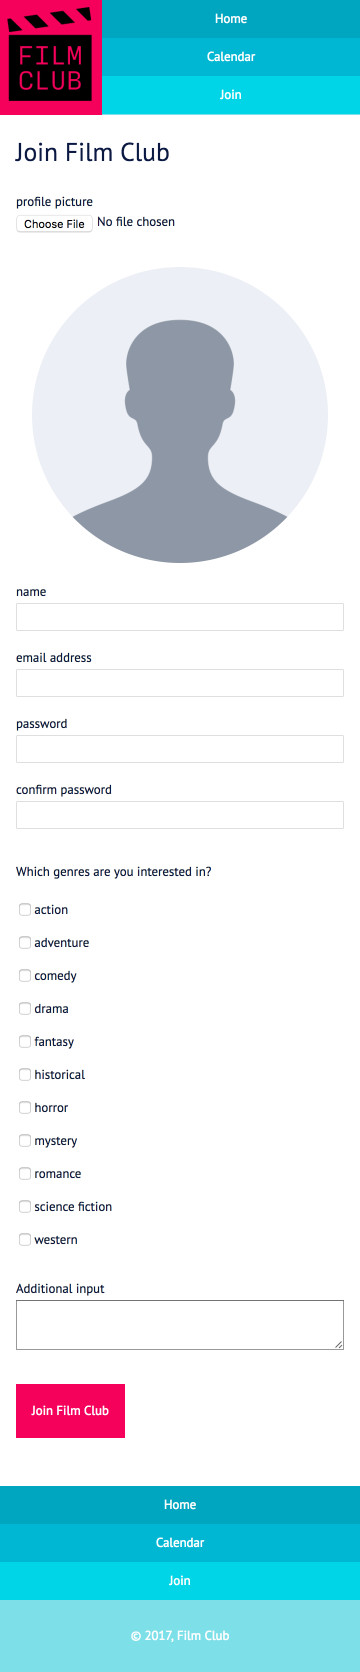
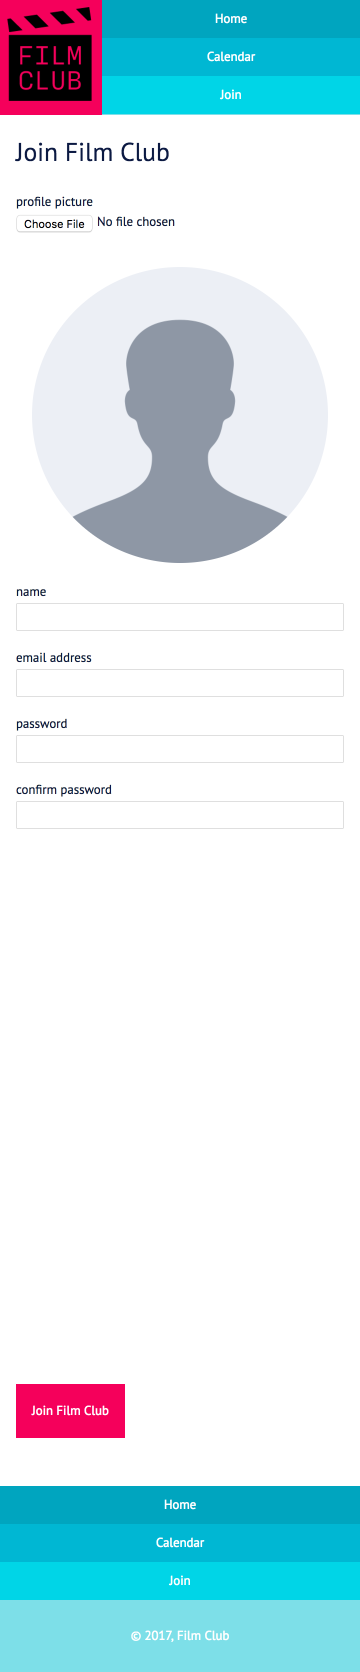
Add CSS styles to join page. Add media queries to CSS for join page. Adjust HTML for join page.

diff --git a/css/main.css b/css/main.css
@@ -290,7 +290,69 @@ h2 {
   text-align: center;
   flex-basis: 51%;
 }
-/*tablet media query*/
+
+/*join page styles*/
+form {
+  font-family: 'PT Sans', sans-serif;
+  font-size: 0.9rem;
+}
+.file-upload {
+  margin-left: 5%;
+}
+.profile-information input {
+  border-style: groove;
+}
+#profile-img img {
+  width: 70vw;
+  border-radius: 50%;
+  margin-top: 5%;
+}
+
+.placeholder-img {
+  display: flex;
+  flex-direction: column;
+}
+.name-email-form {
+  margin: 5% 0 5% 5%;
+}
+.name-email input {
+  width: 95%;
+  border-style: groove;
+  padding: 1.5%;
+}
+.genre-interest-form h4 {
+  font-family: 'PT Sans', sans-serif;
+  font-size: 1rem;
+  font-weight: 500;
+  margin: 0% 0% 3% 5%;
+}
+.genre-checkbox div  {
+  padding: 1.5%;
+  margin-left: 5%;
+}
+.add-text-area {
+  margin: 5% 0% 3% 5%;
+}
+#textarea {
+  border-style: groove;
+  width: 95%;
+  height: 9vh;
+}
+
+#join-film-club {
+  background-color: #F5005B;
+  height: 10vh;
+  width: 30%;
+  padding: 0%;
+  margin: 3% 0% 10% 5%;
+  color: #ffffff;
+  font-family: 'PT Sans', sans-serif;
+  font-size: 1rem;
+  text-align: center;
+  border-style: none;
+}
+
+/*tablet media querys*/
 
 @media screen and (min-width: 545px) and (max-width: 768px) {
   .main-nav {
@@ -418,8 +480,46 @@ h2 {
     section {
     padding-bottom: 5%;
   }
+
+/*tablet join media querys*/
+
+.top-profile-section {
+  display:flex;
 }
-/*desktop media query*/
+#profile-img img {
+    width: 35vw;
+    border-radius: 50%;
+    margin-top: 5%;
+  }
+  .profile-info {
+    flex-basis: 45%;
+  }
+  .top-email-name {
+    margin-top: -12%;
+  }
+  .top-passwords {
+    margin-top: 10%;
+  }
+  .name-email-form {
+    flex-basis: 48%;
+  }
+  .name-email-form div {
+    padding: 1%;
+  }
+  .genre-checkbox {
+    display: flex;
+    flex-direction: row;
+    flex-wrap: wrap;
+  }
+  .genre-interest-form h4 {
+    margin: 5% 0% 3% 5%;
+  }
+  .genre-checkbox div {
+    flex-basis: 35%;
+  }
+}
+
+/*desktop media querys*/
 @media screen and (min-width: 769px) {
   .main-nav {
     display: flex;
@@ -569,4 +669,65 @@ h2 {
     color: #0B1942;
     padding: 0%;
   }
+
+/*desktop join media querys*/
+h1 {
+  font-size: 2.5rem;
+}
+
+#profile-img img {
+    width: 27vw;
+    border-radius: 50%;
+    margin-top: 5%;
+  }
+  .top-profile-section {
+    display: flex;
+  }
+  .profile-information {
+    display:flex;
+    flex-direction: column;
+    flex-wrap: nowrap;
+    justify-content: flex-start;
+    align-content: flex-start;
+    align-items: flex-start;
+  }
+  .name-email-form {
+    flex-basis: 65%;
+    margin-top: 0%;
+  }
+  .profile-name-email {
+    display: flex;
+    flex-direction: row;
+  }
+  .top-email-name div {
+    flex-basis: 33%;
+  }
+  .name-email-form div {
+    padding: 1%;
+    flex: 0 1 60%;
+  }
+  .name-email input {
+    padding: 2.5%;
+  }
+  .genre-checkbox {
+    display: flex;
+    flex-direction: row;
+    flex-wrap: wrap;
+  }
+  .genre-interest-form h4 {
+    margin: 5% 0% 3% 5%;
+  }
+  .genre-checkbox div {
+    flex-basis: 24%;
+  }
+  .genre-checkbox div:last-child {
+    margin-right: 37.7%;
+  }
+  #textarea {
+    width: 65%;
+  }
+  #join-film-club {
+    width: 20%;
+  }
+
 }

diff --git a/join/index.html b/join/index.html
@@ -45,22 +45,34 @@
       </div>
       <div class="name-email-form">
         <form class="profile-name-email" action="index.html" method="post">
+        <div class=top-email-name>
           <div class="name-email">
+            <div>
             <label for="name">name</label>
+            </div>
             <input type="text" name="name" id="name" value="">
           </div>
           <div class="name-email">
+            <div>
             <label for="emailaddress">email address</label>
+            </div>
             <input type="email" name="emailaddress" id="emailaddress" value="">
           </div>
-          <div class="email-name">
+        </div>
+        <div class="top-passwords">
+          <div class="name-email">
+            <div>
             <label for="password">password</label>
+            </div>
             <input type="password" name="password" id="password" value="">
           </div>
           <div class="name-email">
+            <div>
             <label for="confirm">confirm password</label>
+            </div>
             <input type="password" name="confirm" id="confirm" value="">
           </div>
+        </div>
         </form>
       </div>
     </div>
